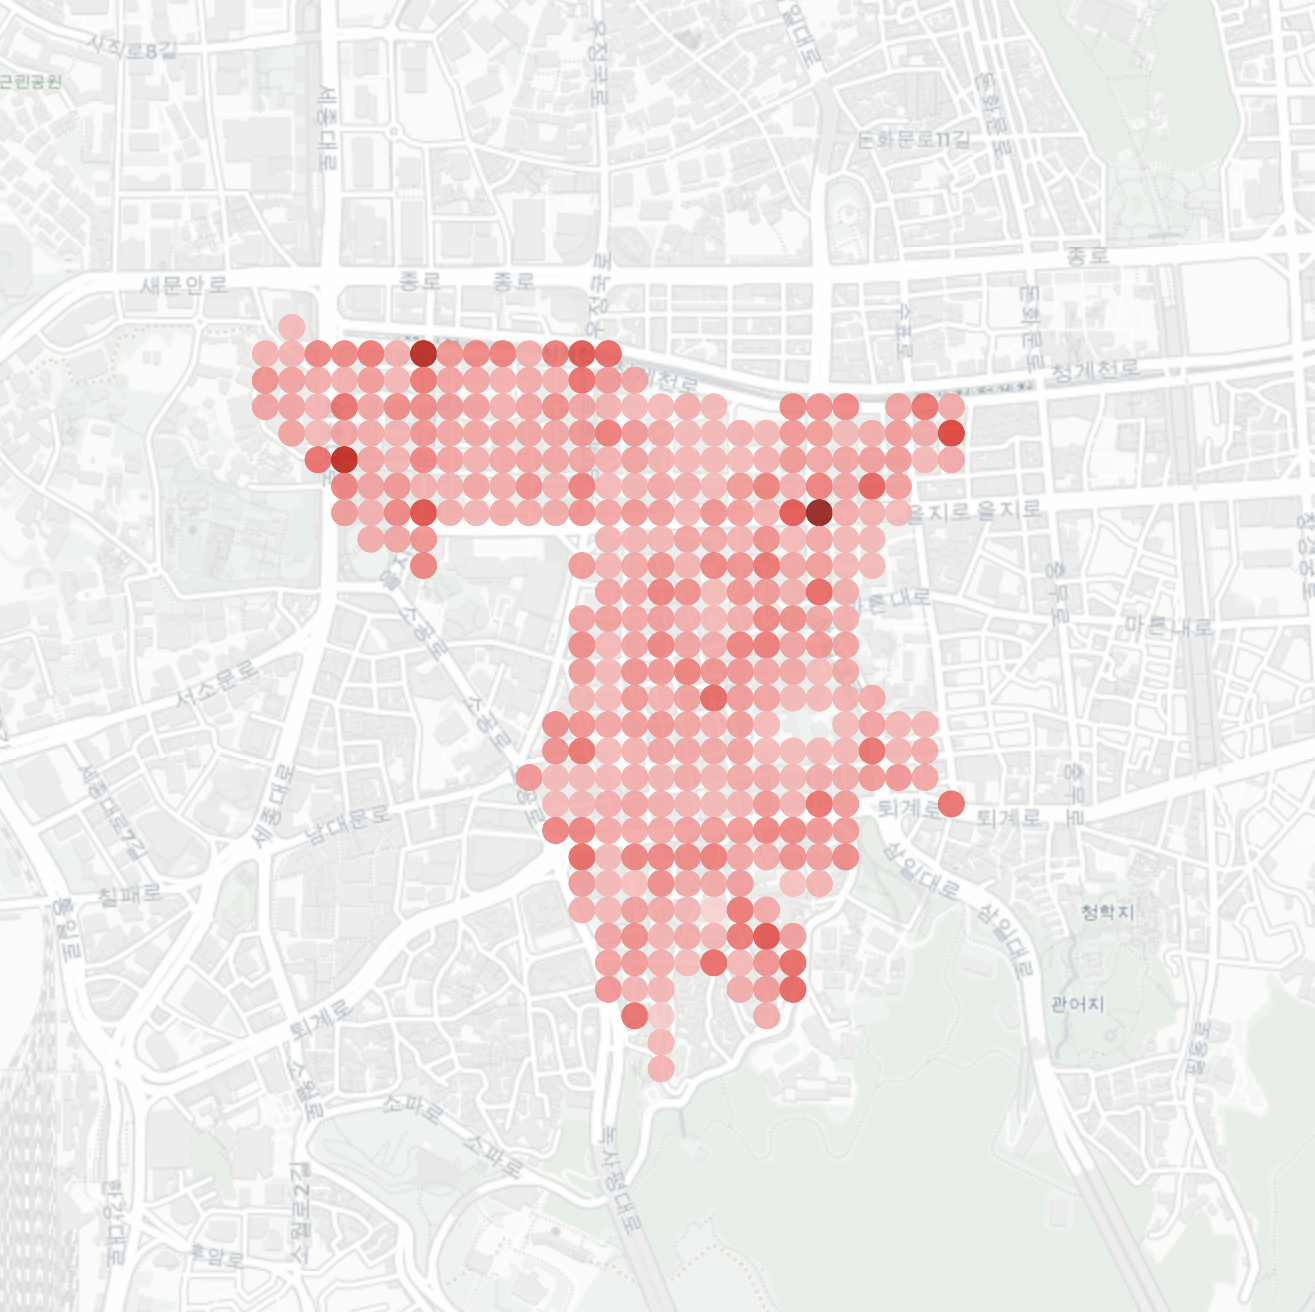
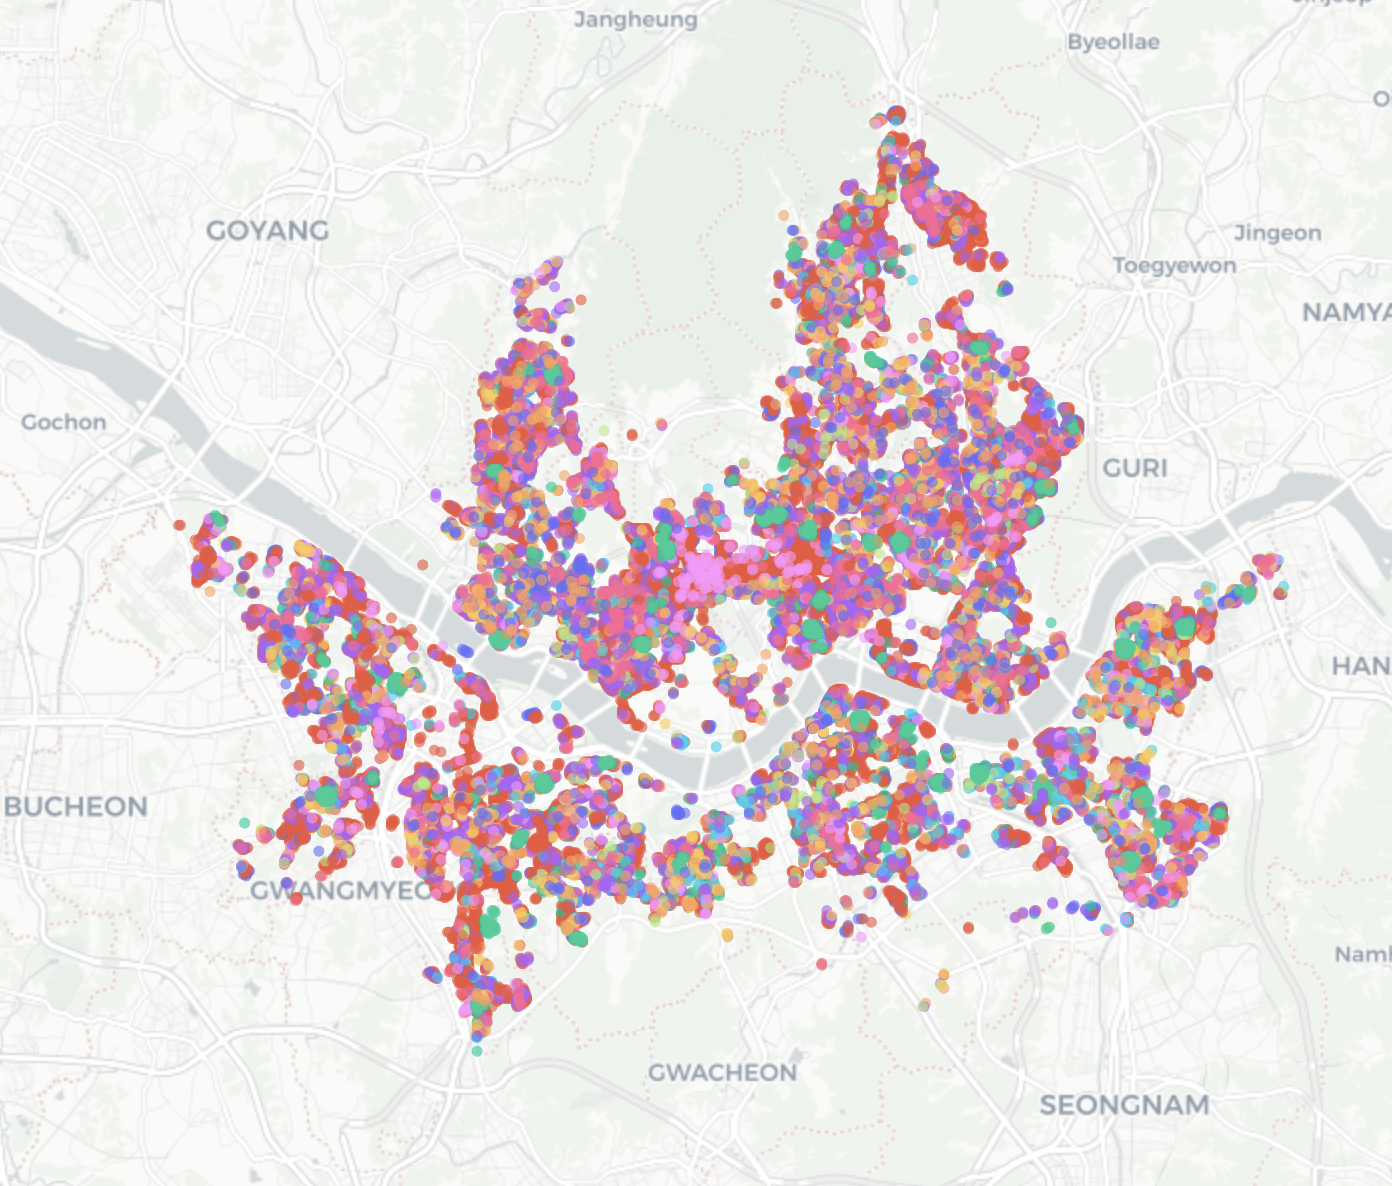
Update slide 13 map and slide 17 layout

diff --git a/index.html b/index.html
@@ -364,6 +364,7 @@
   .persona-card .pdesc{font-size:11.5px;color:var(--text-soft);line-height:1.6;margin-bottom:8px}
   .persona-card .pdong{font-size:10.5px;color:var(--muted);border-top:1px dashed var(--border);padding-top:6px;line-height:1.55;font-weight:600}
   .persona-card .pemoji{position:absolute;top:8px;right:12px;font-size:20px}
+  #s13,#s17{margin-left:var(--sidebar-w);width:calc(100% - var(--sidebar-w))}
 
   /* Section 14 — HL persona */
   .gE-hero{background:linear-gradient(135deg,var(--orange-soft),#fff);border:3px solid var(--orange);border-radius:14px;padding:14px 18px}
@@ -412,6 +413,28 @@
   .news-card .ti{font-size:14px;font-weight:900;color:var(--text);margin-bottom:4px;line-height:1.3}
   .news-card .de{font-size:11px;color:var(--text-soft);line-height:1.5}
 
+  /* Section 17 — AI CCTV gap */
+  .s17-reality{margin-bottom:12px;font-size:13px}
+  .s17-grid{display:grid;grid-template-columns:minmax(0,1fr) minmax(0,1fr);gap:12px;margin-bottom:12px;align-items:stretch}
+  .s17-col{display:flex;flex-direction:column;gap:10px;height:100%;min-height:0}
+  .s17-col>.limit-card,.s17-col>.card,.s17-col>.callout{margin:0}
+  .s17-left .limit-card{padding:11px 15px}
+  .s17-left .limit-card .h{font-size:12.5px}
+  .s17-left .bul li{font-size:11.8px;line-height:1.55;padding-top:2px;padding-bottom:2px}
+  .s17-right .card,.s17-right .callout{border-width:2px;border-radius:12px;padding:13px 16px}
+  .card.green.s17-solution{flex:1 1 auto;background:linear-gradient(135deg,var(--green-deep),var(--green));border-color:var(--green-deep);color:#fff;box-shadow:0 12px 26px rgba(22,163,74,.18)}
+  .card.purple.s17-diff{background:linear-gradient(135deg,#7e22ce,var(--purple));border-color:#6b21a8;color:#fff;box-shadow:0 12px 26px rgba(147,51,234,.15)}
+  .callout.green.s17-effect{background:linear-gradient(135deg,var(--green-deep),var(--green));border-color:var(--green-deep);color:#fff;font-size:12px;line-height:1.6;box-shadow:0 12px 26px rgba(22,163,74,.16)}
+  .s17-solution .head,.s17-diff .head{color:#fff;margin-bottom:7px}
+  .s17-card-body{font-size:12px;color:#fff;line-height:1.65;margin-bottom:9px}
+  .s17-card-body strong,.s17-effect strong{color:#fff;font-weight:900}
+  .s17-priority-flow{display:grid;grid-template-columns:60px 1fr;gap:6px;font-size:11px;line-height:1.45}
+  .s17-input-tag{font-family:monospace;font-weight:900;color:#fff;background:rgba(255,255,255,.18);border:1px solid rgba(255,255,255,.38);padding:2px 6px;border-radius:5px;text-align:center;font-size:10px}
+  .s17-gridline{color:#f8fafc}
+  .s17-gridline strong{color:#fff}
+  .s17-effect-title{display:block;font-weight:900;margin-bottom:3px;color:#fff}
+  .s17-source{font-size:11px;color:var(--muted);text-align:right}
+
   .step-list{counter-reset:stp;list-style:none;padding:0}
   .step-list li{counter-increment:stp;padding:4px 0 4px 52px;position:relative;font-size:11.5px;color:var(--text-soft);line-height:1.45;border-bottom:1px dashed var(--border);min-height:20px;word-break:keep-all}
   .step-list li:last-child{border-bottom:0}
@@ -449,6 +472,7 @@
     section{padding:30px 26px}
     .cover-title{font-size:38px}
     .cover-grid,.lisa-grid,.persona-grid,.grid-hero,.limit-row,.lisamap-grid,.pca-grid{grid-template-columns:1fr}
+    .s17-grid{grid-template-columns:1fr}
     .prob-grid,.grid-4,.hdb-grid,.kpi-grid,.data8-grid{grid-template-columns:repeat(2,1fr)}
     .layer3,.grid-3,.refs-grid{grid-template-columns:1fr}
     .toc-row{grid-template-columns:48px 1fr 1fr;gap:10px}
@@ -1597,13 +1621,9 @@
     <div class="card" style="border-color:var(--text);padding:8px 10px">
       <div class="head" style="margin-bottom:4px;font-size:11px;display:flex;justify-content:space-between;align-items:center">
         <span>HH 클러스터 지도 — 서울 전역 (82 valid clusters)</span>
-        <button id="s13-replay" style="background:#fff;border:1.5px solid var(--text);border-radius:999px;padding:2px 10px;font-size:10.5px;font-weight:800;cursor:pointer">↻ 다시 재생</button>
       </div>
-      <div id="s13-map-wrap" style="position:relative;width:100%;max-width:400px;aspect-ratio:1315/1312;margin:0 auto;background:#f1f5f9;border-radius:8px;overflow:hidden;border:1px solid var(--border)">
-        <img src="maps/s13_map.png" alt="HH 클러스터 지도" style="position:absolute;inset:0;width:100%;height:100%;object-fit:cover;user-select:none" draggable="false">
-
-        <!-- 5개 색별 클러스터 의미 매핑 팝업 오버레이 -->
-        <div id="s13-popups" style="position:absolute;inset:0;pointer-events:none"></div>
+      <div id="s13-map-wrap" style="position:relative;width:100%;max-width:640px;aspect-ratio:1392/1186;margin:0 auto;background:#fff;border-radius:8px;overflow:hidden;border:1px solid var(--border)">
+        <img src="maps/s13_map.png?v=20260605-2140" alt="HH 클러스터 지도" style="position:absolute;inset:0;width:100%;height:100%;object-fit:cover;user-select:none" draggable="false">
       </div>
     </div>
   </div>
@@ -1873,13 +1893,13 @@
   <h2 class="sectitle">좋은 기술이 있지만 — 어디부터 볼지 모른다는 문제</h2>
   <p class="secsub">서울시 AI CCTV 고속검색 시스템 (100시간 영상 → 10분 분석)이 가진 <strong>3가지 잠재 한계</strong>와 본 분석이 제공하는 <strong>"탐색 우선순위 추천" 솔루션</strong></p>
 
-  <div class="callout dark" style="margin-bottom:12px;font-size:13px">
+  <div class="callout dark s17-reality">
     <strong style="color:var(--yellow)">현실</strong>&nbsp;&nbsp;"100시간 영상을 10분에 분석할 수 있다 — 그러나 12만 3천 대 중 어느 영상을 분석할지는 여전히 사람이 정해야 한다."
   </div>
 
-  <div class="grid-2" style="gap:12px;margin-bottom:12px">
-    <div>
-      <div class="limit-card orange" style="margin-bottom:10px">
+  <div class="s17-grid">
+    <div class="s17-col s17-left">
+      <div class="limit-card orange">
         <div class="h">💰 메모리·GPU 연산 비용 부담</div>
         <ul class="bul orange">
           <li>100시간 영상을 10분에 분석한다는 것은 <strong>GPU와 메모리에 막대한 부하</strong> 발생</li>
@@ -1887,7 +1907,7 @@
           <li>분석 대상 영상을 줄이지 못하면 <strong>시스템 확장에 비용 한계가 명확</strong></li>
         </ul>
       </div>
-      <div class="limit-card red" style="margin-bottom:10px">
+      <div class="limit-card red">
         <div class="h">🔥 수십만 대 무차별 탐색의 비효율</div>
         <ul class="bul red">
           <li>실종 신고 발생 시 신고 위치 반경 500m 평균 <strong>수백 대 CCTV가 검색 대상</strong></li>
@@ -1905,33 +1925,33 @@
         </ul>
       </div>
     </div>
-    <div>
-      <div class="card green" style="margin-bottom:10px">
+    <div class="s17-col s17-right">
+      <div class="card green s17-solution">
         <div class="head">🎯 탐색 우선순위 추천 시스템</div>
-        <div style="font-size:12px;color:var(--text-soft);line-height:1.7;margin-bottom:10px">
+        <div class="s17-card-body">
           실종 발생 위치와 발생 시각으로부터의 경과 시간을 입력값으로 받아, LISA × HDBSCAN 격자 단위 <strong>위험 점수가 높은 지역의 CCTV를 우선 탐색 대상으로 자동 추천</strong>하는 시스템.
         </div>
-        <div style="display:grid;grid-template-columns:60px 1fr;gap:6px;font-size:11px;line-height:1.5">
-          <div style="font-family:monospace;font-weight:900;color:var(--green-deep);background:var(--green-soft);padding:2px 6px;border-radius:5px;text-align:center;font-size:10px">입력 1</div>
-          <div style="color:var(--text-soft)">실종 신고 위치 → 신고 격자 ID (G50-row-col)</div>
-          <div style="font-family:monospace;font-weight:900;color:var(--green-deep);background:var(--green-soft);padding:2px 6px;border-radius:5px;text-align:center;font-size:10px">입력 2</div>
-          <div style="color:var(--text-soft)">신고 시각으로부터 경과 시간 t → 가능 이동 반경 r(t)</div>
-          <div style="font-family:monospace;font-weight:900;color:var(--green-deep);background:var(--green-soft);padding:2px 6px;border-radius:5px;text-align:center;font-size:10px">입력 3</div>
-          <div style="color:var(--text-soft)">격자별 LISA HH 응집도 + HDBSCAN 군집 시그너처 (골목 미로·고밀도 상업 동)</div>
-          <div style="font-family:monospace;font-weight:900;color:var(--green-deep);background:var(--green-soft);padding:2px 6px;border-radius:5px;text-align:center;font-size:10px">출력</div>
-          <div style="color:var(--text-soft)"><strong style="color:var(--text)">탐색 우선순위 격자 리스트</strong> → AI CCTV 검색 시스템에 자동 전달</div>
+        <div class="s17-priority-flow">
+          <div class="s17-input-tag">입력 1</div>
+          <div class="s17-gridline">실종 신고 위치 → 신고 격자 ID (G50-row-col)</div>
+          <div class="s17-input-tag">입력 2</div>
+          <div class="s17-gridline">신고 시각으로부터 경과 시간 t → 가능 이동 반경 r(t)</div>
+          <div class="s17-input-tag">입력 3</div>
+          <div class="s17-gridline">격자별 LISA HH 응집도 + HDBSCAN 군집 시그너처 (골목 미로·고밀도 상업 동)</div>
+          <div class="s17-input-tag">출력</div>
+          <div class="s17-gridline"><strong>탐색 우선순위 격자 리스트</strong> → AI CCTV 검색 시스템에 자동 전달</div>
         </div>
       </div>
 
-      <div class="card purple">
+      <div class="card purple s17-diff">
         <div class="head">⭐ 핵심 차별점</div>
-        <div style="font-size:12px;color:var(--text-soft);line-height:1.7">
-          <strong style="color:var(--purple)">새 CCTV 설치 X / 새 분석 모델 X</strong> / 기존 서울시 시스템에 <strong>우선순위 데이터만 공급하는 소프트웨어 레이어</strong> — 추가 인프라 비용 ≒ 0원
+        <div class="s17-card-body">
+          <strong>새 CCTV 설치 X / 새 분석 모델 X</strong> / 기존 서울시 시스템에 <strong>우선순위 데이터만 공급하는 소프트웨어 레이어</strong> — 추가 인프라 비용 ≒ 0원
         </div>
       </div>
 
-      <div class="callout green" style="margin-top:10px;font-size:12px">
-        <strong>기대 효과 (정량 추정)</strong><br>
+      <div class="callout green s17-effect">
+        <span class="s17-effect-title">기대 효과 (정량 추정)</span>
         ● 영상 분석 대상 CCTV 약 <strong>90% 축소</strong> (수백 대 → 수십 대 핀셋)<br>
         ● GPU 연산 시간·메모리 사용량 비례 절감<br>
         ● 골든타임 4시간 내 발견율 추정 <strong>+10%p 이상</strong><br>
@@ -1940,7 +1960,7 @@
     </div>
   </div>
 
-  <div style="font-size:11px;color:var(--muted);text-align:right">
+  <div class="s17-source">
     출처: 서울특별시 보도자료 (AI CCTV 고속검색시스템, 2026년 25개 자치구 완료) · 방법론: LISA × HDBSCAN 격자 단위 위험 점수 + 시간-반경 확률 모델 결합
   </div>
   <span class="pageno">SLIDE 17 / 23</span>